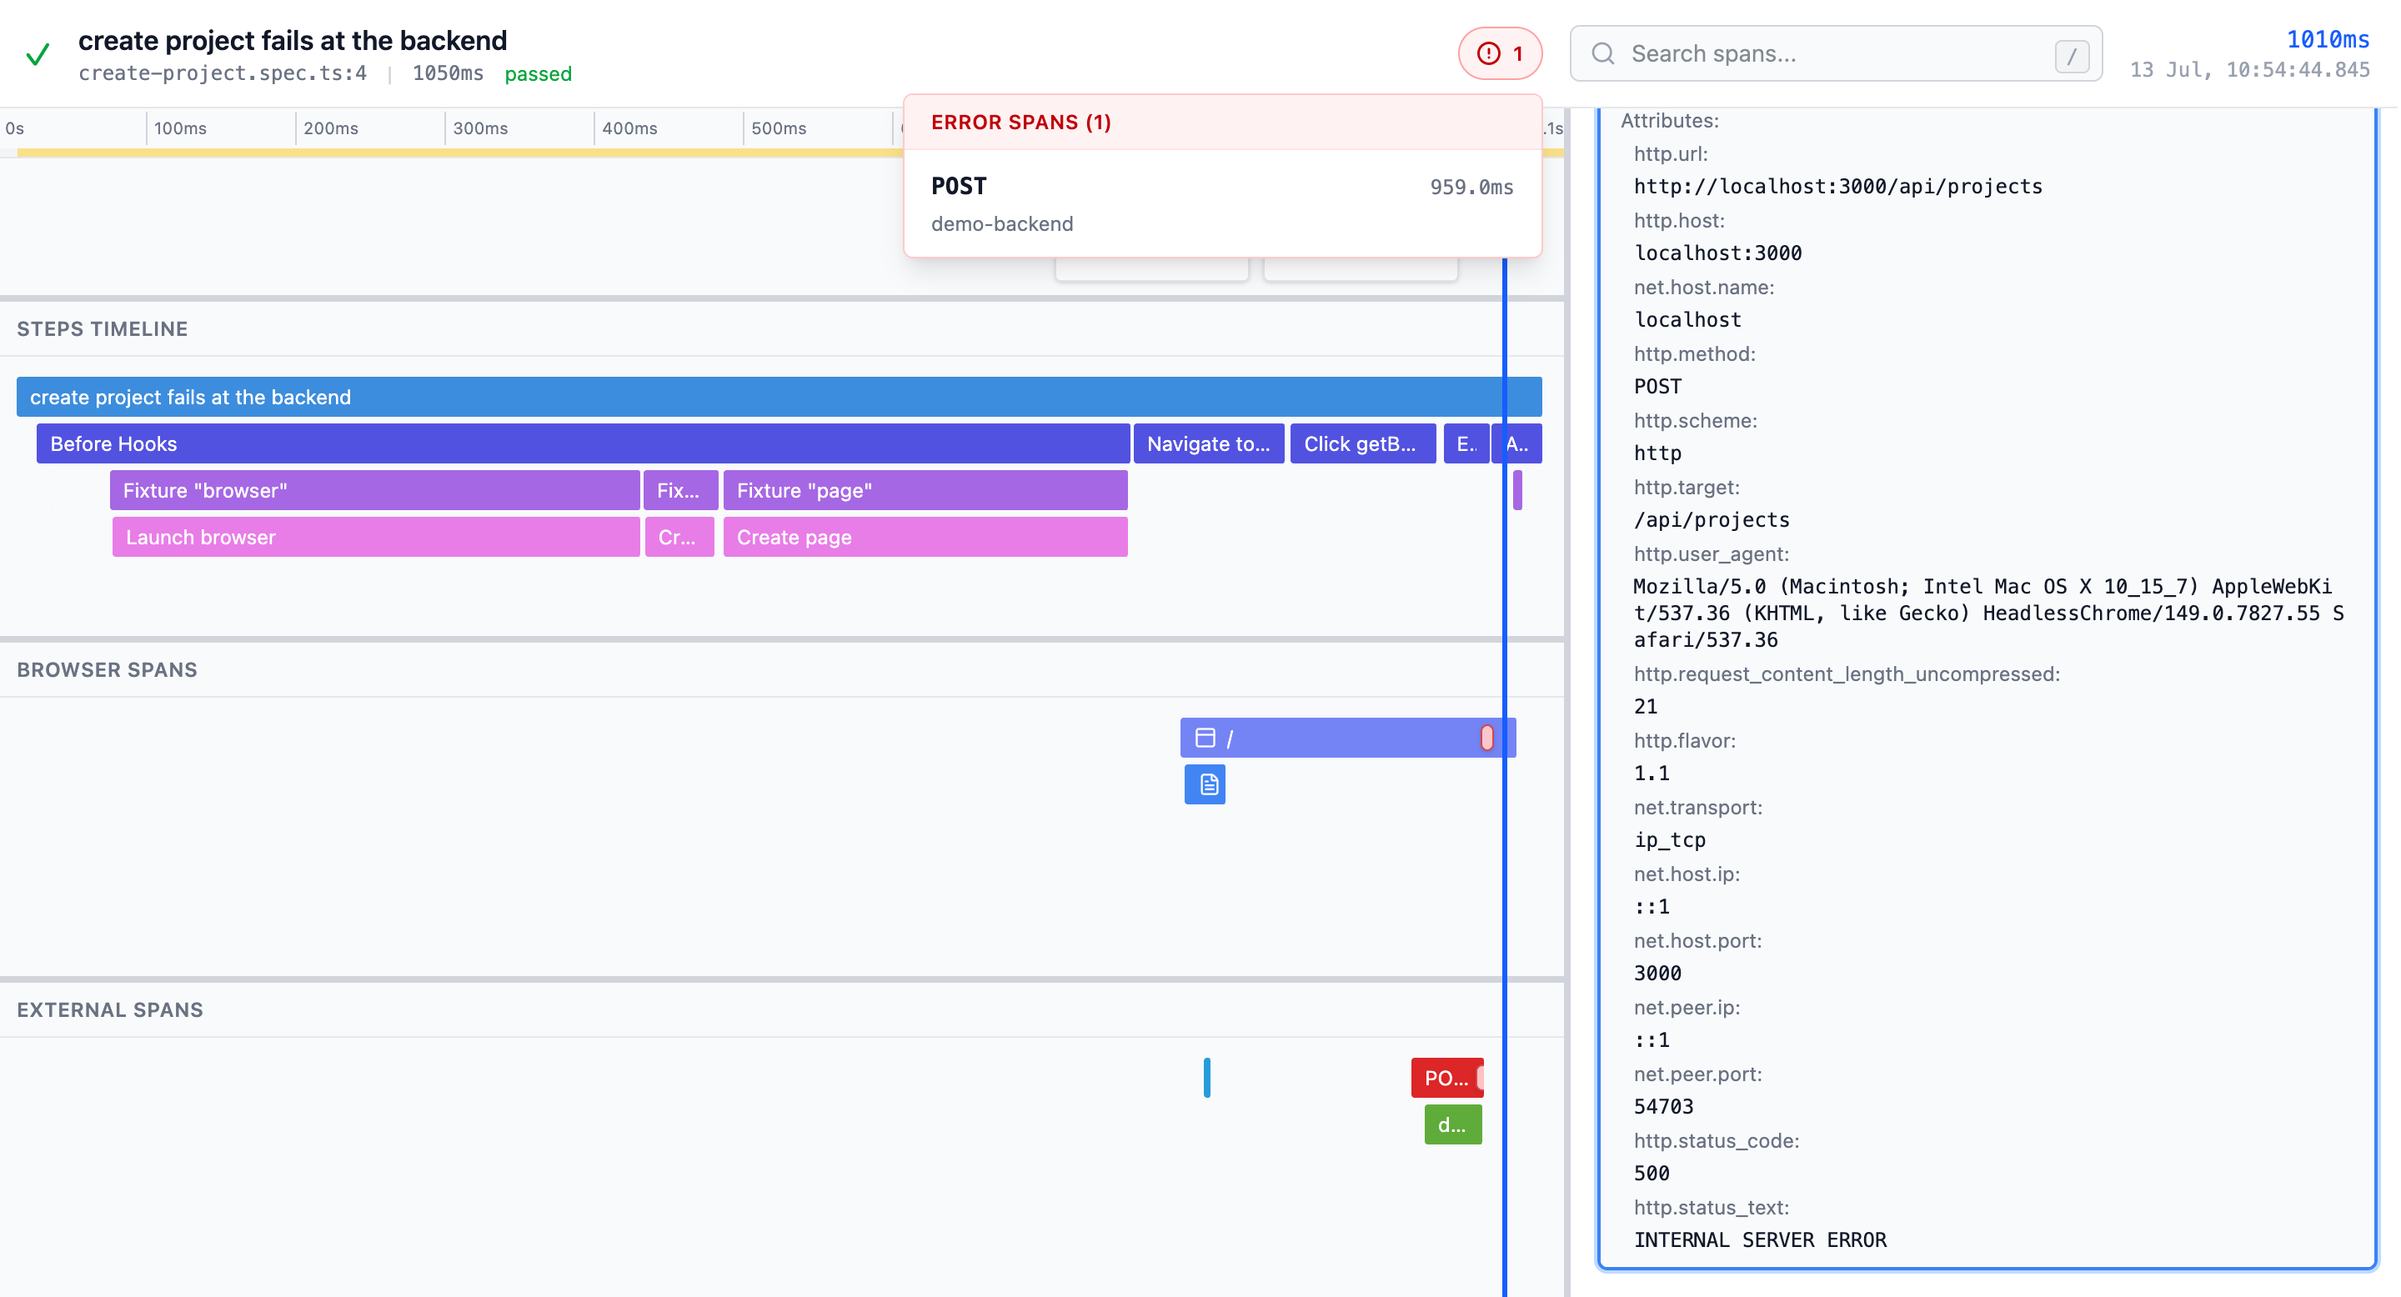
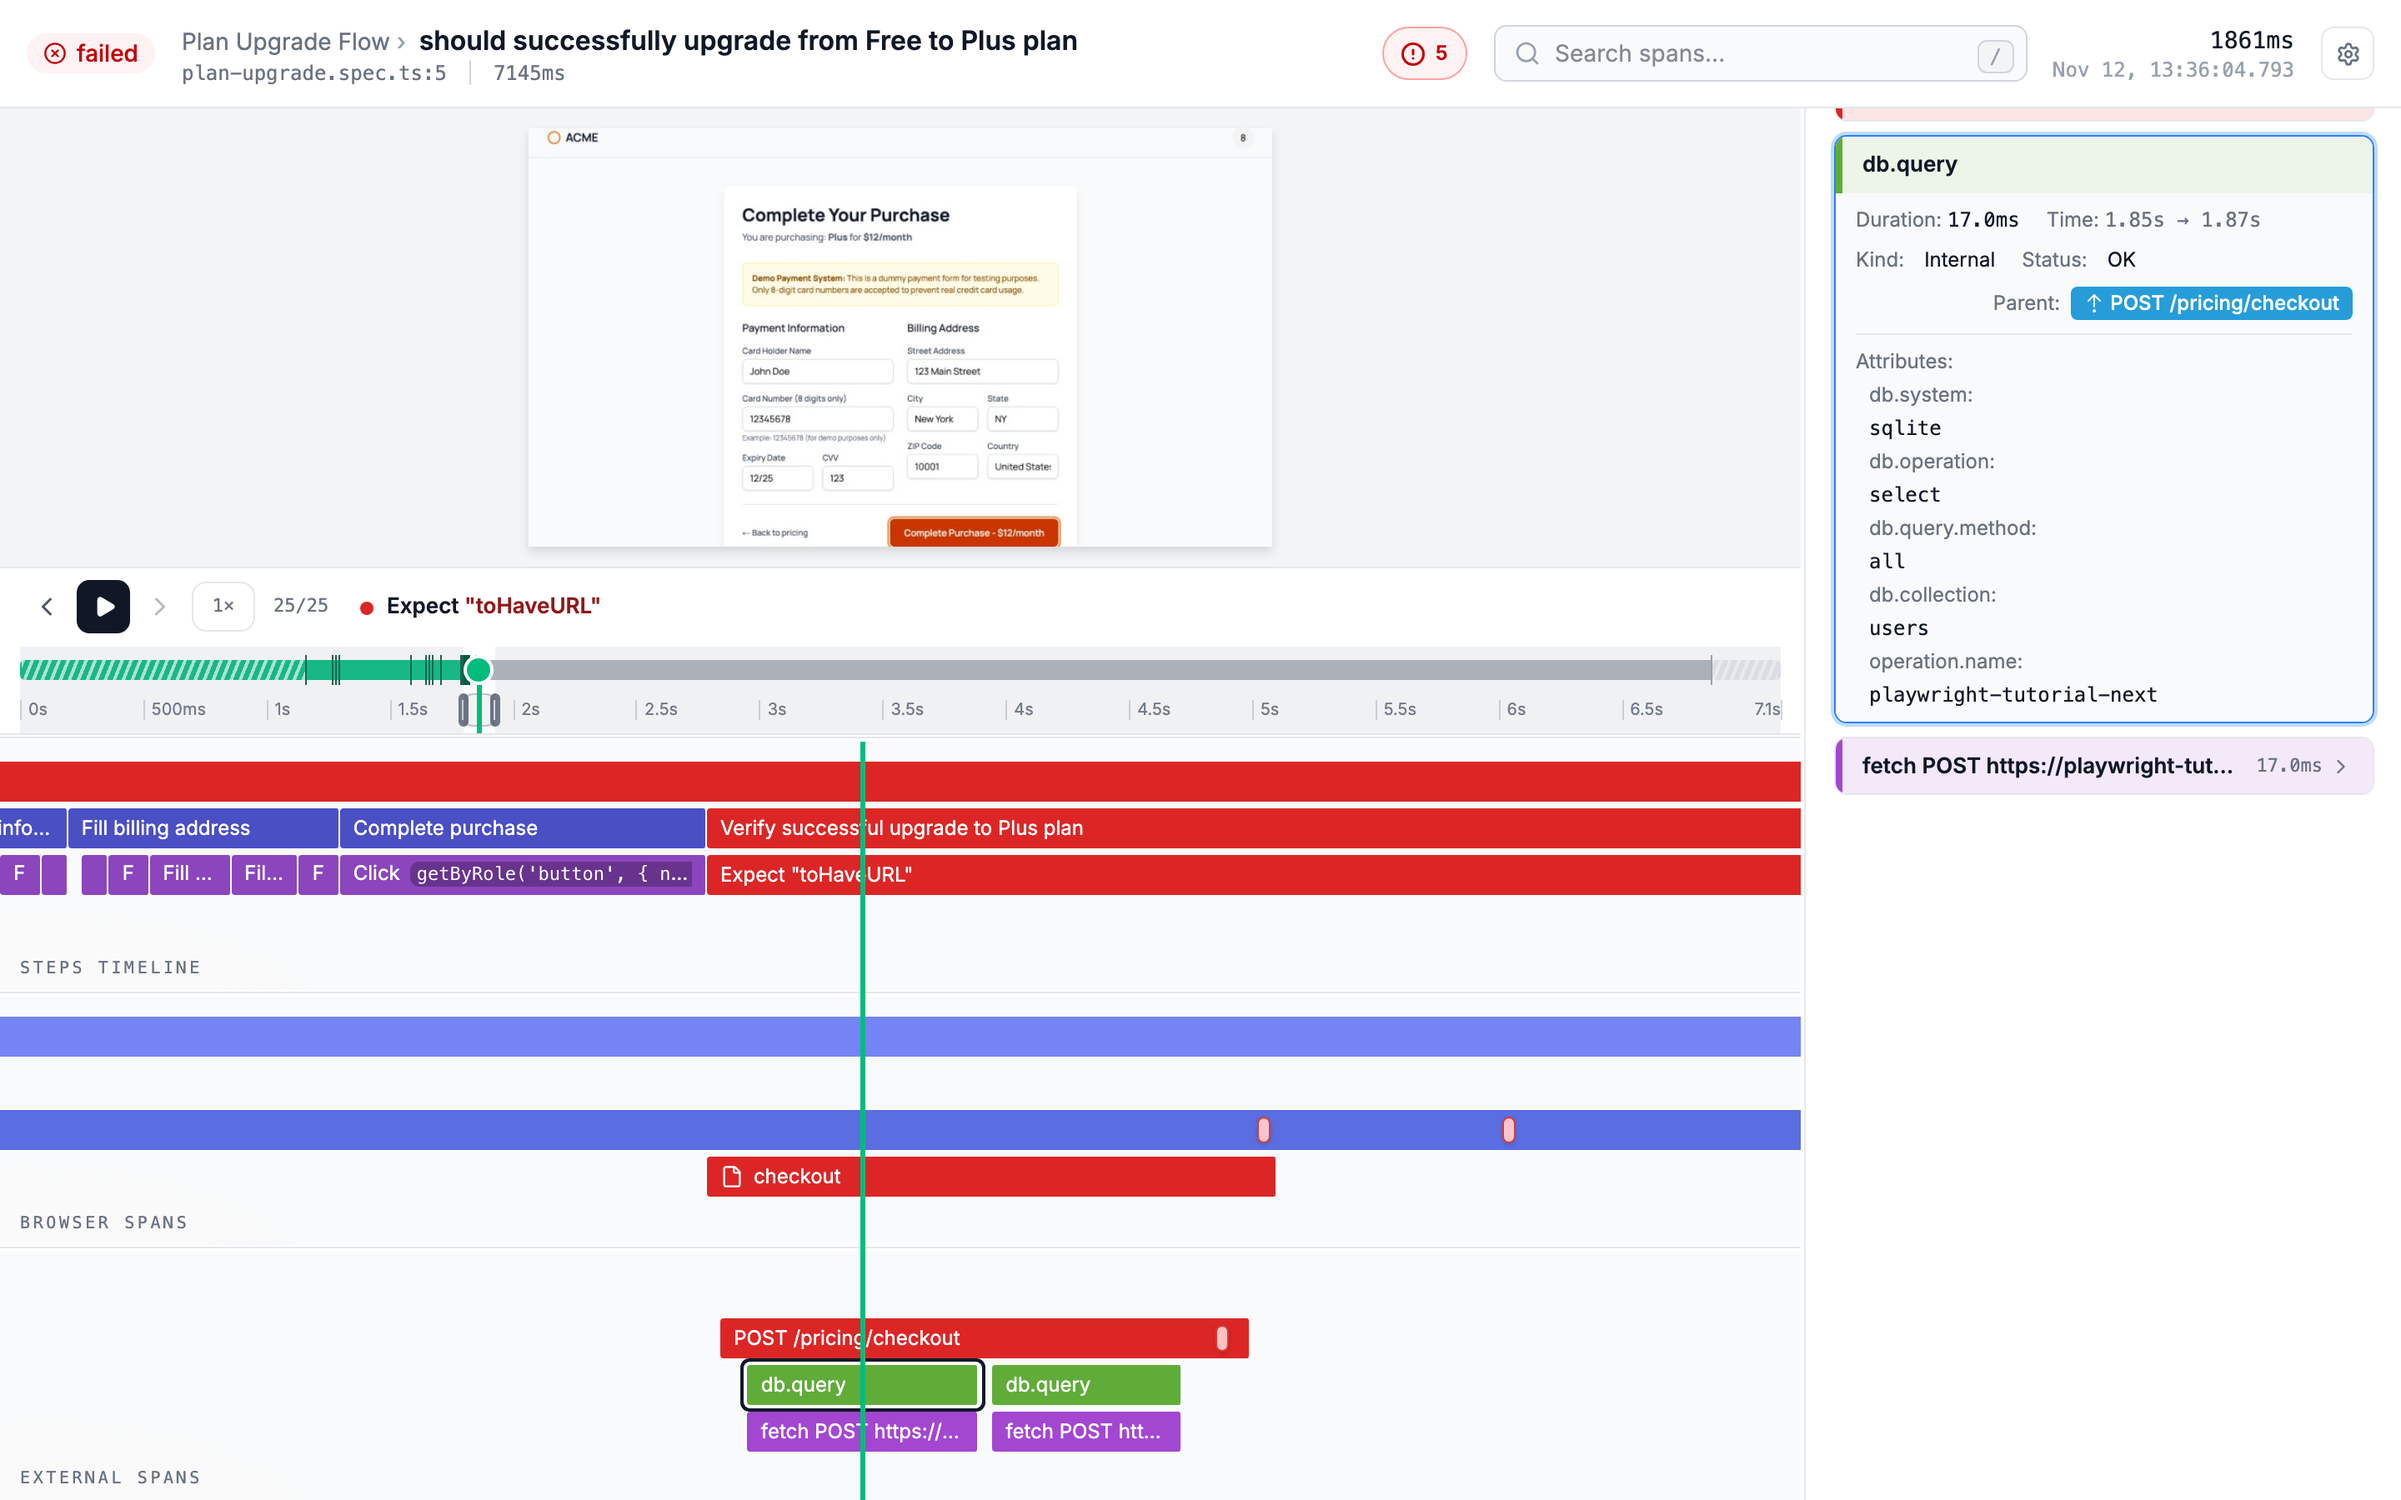
docs: refresh README screenshots and example trace (#87)
The README screenshots came from an old test harness and an older
viewer, and the example trace had no backend spans.

## Changes

- **New example trace, `payment-server-error/v2.zip`.** It comes from
playwright-tutorial `main` with `FAULTS=payment-server-error`, run
against the Next app locally with its OpenTelemetry export on. The app's
spans for the test's trace ID were added to the ZIP as
`traces/playwright-tutorial-next.json`, so the example now shows the
full chain: browser request → `POST /pricing/checkout` (with the
exception) → `db.query` → fetch to the database proxy.
- **Three screenshots retaken** with this branch's viewer at 1440×900
@2x, from that trace:
- `hero-trace.png`: the failing backend span selected, with the step
viewer on the checkout page.
- `browser-to-db.png`: a `db.query` under `POST /pricing/checkout`,
under the browser's `checkout` request.
- `error-navigator.png`: the error navigator open on the backend error.
- **README links** to the example trace now point at `v2.zip`. `v1.zip`
is still in the bucket.

## Hosting

`v2.zip` is in the `endform-demo-traces-production` R2 bucket and opens
in the live viewer at trace.endform.dev.

## Notes on the trace data

- Absolute build paths in the backend stack trace were rewritten to
`/app/`.
- The tutorial's own tracer has no `version`, and the viewer's OTLP
schema requires `scope.version`. That scope's version is set to `""` so
the deployed viewer can load the trace. The viewer should accept a
[…]

Changed region(s): [[0.0, 0.0, 1.0, 1.0], [0.2812, 0.8638, 0.5312, 0.9871], [0.0312, 0.0, 0.4375, 0.0617]]

diff --git a/README.md b/README.md
@@ -19,7 +19,7 @@
 <p align="center">
 	<a href="#quick-start">Quick start</a> ·
 	<a href="#usage">Usage</a> ·
-	<a href="https://trace.endform.dev/?traceSource=https%3A%2F%2Fdemo-traces.endform.dev%2Fotel-traces%2Fplaywright-tutorial%2Fpayment-server-error%2Fv1.zip">View example trace</a> ·
+	<a href="https://trace.endform.dev/?traceSource=https%3A%2F%2Fdemo-traces.endform.dev%2Fotel-traces%2Fplaywright-tutorial%2Fpayment-server-error%2Fv2.zip">View example trace</a> ·
 	<a href="#contributing">Contributing</a>
 </p>
 
@@ -118,7 +118,7 @@ test("has title", async ({ page }) => {
 });
 ```
 
-Run your suite, then open the resulting trace ZIP in the [hosted viewer](https://trace.endform.dev). To see the result before configuring anything, [open the example trace](https://trace.endform.dev/?traceSource=https%3A%2F%2Fdemo-traces.endform.dev%2Fotel-traces%2Fplaywright-tutorial%2Fpayment-server-error%2Fv1.zip).
+Run your suite, then open the resulting trace ZIP in the [hosted viewer](https://trace.endform.dev). To see the result before configuring anything, [open the example trace](https://trace.endform.dev/?traceSource=https%3A%2F%2Fdemo-traces.endform.dev%2Fotel-traces%2Fplaywright-tutorial%2Fpayment-server-error%2Fv2.zip).
 
 You can also boot the viewer locally:
 
@@ -248,7 +248,7 @@ Note: `storeTraceZip` follows only the top-level trace setting.
 
 ### Viewing a trace
 
-Open the [example trace](https://trace.endform.dev/?traceSource=https%3A%2F%2Fdemo-traces.endform.dev%2Fotel-traces%2Fplaywright-tutorial%2Fpayment-server-error%2Fv1.zip) to explore a complete failure with connected Playwright, browser, and backend spans, or go to the [hosted trace viewer](https://trace.endform.dev) to load your own trace ZIP.
+Open the [example trace](https://trace.endform.dev/?traceSource=https%3A%2F%2Fdemo-traces.endform.dev%2Fotel-traces%2Fplaywright-tutorial%2Fpayment-server-error%2Fv2.zip) to explore a complete failure with connected Playwright, browser, and backend spans, or go to the [hosted trace viewer](https://trace.endform.dev) to load your own trace ZIP.
 
 Or boot your own locally:
 
